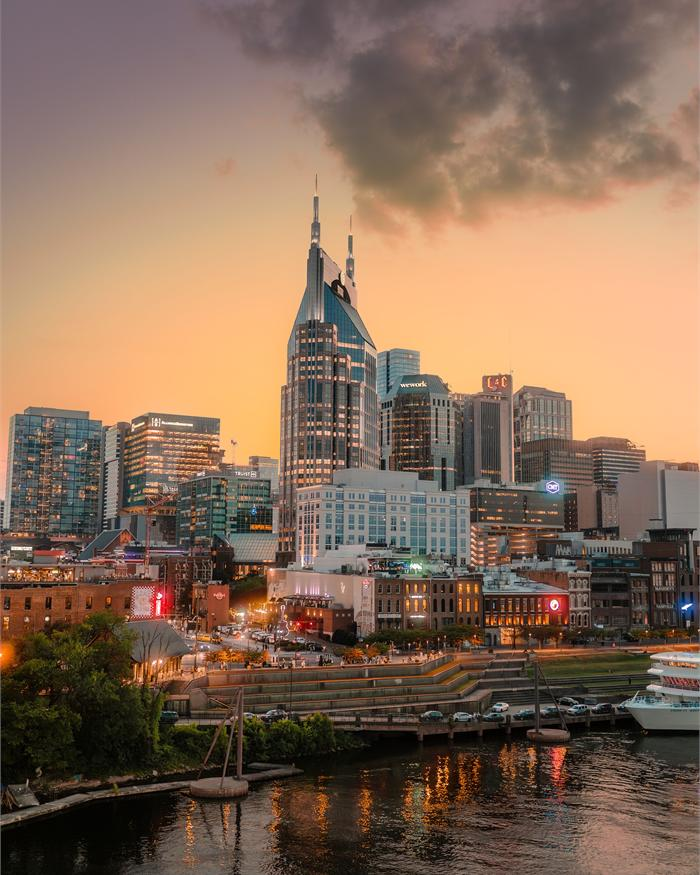
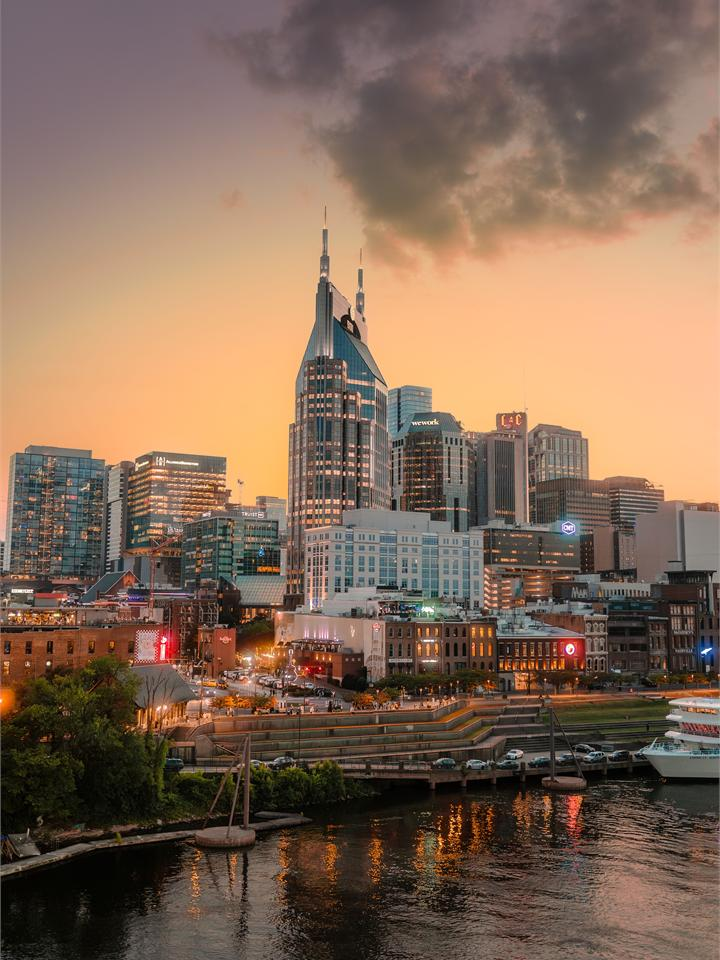
Hero: embed the photograph architecturally, no cropping
The hero image was displayed as a floating card - rounded corners, drop
shadow - with the photograph cropped to a 440px object-fit window (a heavy
zoom into the middle of the frame). Per the PI:

- The image is now a structural half of the hero: flush with the header
  above, the section edge below, and the right edge of the viewport - a
  full-bleed split hero. No radius, no shadow, no card background.
- Shown at its natural aspect (height: auto), so the full frame reads -
  sky, tower spire, skyline, riverfront and the Cumberland River
  reflections - regenerated at 3:4 (1280px and 720px variants).
- Text column stays aligned to the site grid; caption is a compact pill in
  the image's lower-right corner. On mobile the image runs edge-to-edge
  below the text at natural aspect.

diff --git a/index.html b/index.html
@@ -42,7 +42,7 @@
 <a class="skip-link" href="#main">Skip to main content</a>
 <header class="site-header"><div class="wrap site-header__inner"><a class="brand" href="index.html"><span class="brand__mark">UHR Lab</span><span class="brand__sub">Koorosh Azizi &middot; Tennessee State University</span></a><button class="nav__toggle" type="button" aria-expanded="false" aria-controls="site-nav" hidden>Menu</button><nav class="nav" id="site-nav" aria-label="Main"><ul class="nav__list"><li><a class="nav__link" href="research.html">Research</a></li><li><a class="nav__link" href="publications.html">Publications</a></li><li><a class="nav__link" href="people.html">People</a></li><li><a class="nav__link" href="teaching.html">Teaching</a></li><li><a class="nav__link" href="research.html#open-science">Open Science</a></li><li><a class="nav__link" href="news.html">News</a></li><li><a class="nav__link nav__link--cta" href="join.html">Join Us</a></li></ul></nav></div></header>
 <main id="main">
-<section class="lab-hero" aria-labelledby="lab-home-title"><div class="wrap lab-hero__grid"><div class="lab-hero__copy"><p class="lab-kicker">Urban Hydrosystems &amp; Resilience Lab</p><h1 id="lab-home-title">Urban water, infrastructure and society under a changing climate.</h1><p class="lab-hero__lede">We study cities as <strong>coupled systems</strong> &mdash; how hydrologic processes and infrastructure interact with human behavior, institutions and socioeconomic conditions to shape urban risk, sustainability, equity and resilience across space and time.</p><div class="lab-hero__topics" aria-label="Core research areas"><span>Urban water systems</span><span>Climate risk</span><span>Sociohydrology</span><span>Human–water–infrastructure systems</span></div><div class="btn-row"><a class="btn btn--primary" href="research.html">Explore our research</a><a class="btn btn--secondary" href="join.html">Join the lab</a></div><p class="lab-hero__pi"><img class="lab-hero__pi-photo" src="assets/img/azizi-portrait.jpg" width="44" height="44" alt="" loading="lazy"><span>Led by <a href="people.html">Koorosh Azizi, Ph.D.</a>, Assistant Professor of Civil &amp; Architectural Engineering at Tennessee State University.</span></p></div><figure class="lab-hero__media"><picture><source media="(max-width: 720px)" srcset="assets/img/photos/hero-nashville-sm.jpg"><img src="assets/img/photos/hero-nashville.jpg" width="1200" height="1500" alt="Downtown Nashville at sunset: the AT&amp;T tower and skyline glowing gold above the Cumberland River, with city lights reflecting in the water." fetchpriority="high" decoding="async"></picture><figcaption>Downtown Nashville and the Cumberland River · UHR Lab is based at Tennessee State University. Photo: ceesz / Pexels</figcaption></figure></div></section>
+<section class="lab-hero" aria-labelledby="lab-home-title"><div class="wrap lab-hero__grid"><div class="lab-hero__copy"><p class="lab-kicker">Urban Hydrosystems &amp; Resilience Lab</p><h1 id="lab-home-title">Urban water, infrastructure and society under a changing climate.</h1><p class="lab-hero__lede">We study cities as <strong>coupled systems</strong> &mdash; how hydrologic processes and infrastructure interact with human behavior, institutions and socioeconomic conditions to shape urban risk, sustainability, equity and resilience across space and time.</p><div class="lab-hero__topics" aria-label="Core research areas"><span>Urban water systems</span><span>Climate risk</span><span>Sociohydrology</span><span>Human–water–infrastructure systems</span></div><div class="btn-row"><a class="btn btn--primary" href="research.html">Explore our research</a><a class="btn btn--secondary" href="join.html">Join the lab</a></div><p class="lab-hero__pi"><img class="lab-hero__pi-photo" src="assets/img/azizi-portrait.jpg" width="44" height="44" alt="" loading="lazy"><span>Led by <a href="people.html">Koorosh Azizi, Ph.D.</a>, Assistant Professor of Civil &amp; Architectural Engineering at Tennessee State University.</span></p></div><figure class="lab-hero__media"><picture><source media="(max-width: 720px)" srcset="assets/img/photos/hero-nashville-sm.jpg"><img src="assets/img/photos/hero-nashville.jpg" width="1280" height="1707" alt="Downtown Nashville at sunset: the AT&amp;T tower and skyline glowing gold above the Cumberland River, with city lights reflecting in the water." fetchpriority="high" decoding="async"></picture><figcaption>Downtown Nashville and the Cumberland River · UHR Lab is based at Tennessee State University. Photo: ceesz / Pexels</figcaption></figure></div></section>
 <section class="lab-intro-strip"><div class="wrap lab-intro-strip__grid"><div><span>Our lens</span><strong>Coupled systems</strong><p>Physical, behavioral, institutional and spatial processes are analyzed together.</p></div><div><span>Our scales</span><strong>Parcel to region</strong><p>Households, neighborhoods, infrastructure networks, utilities and governance systems.</p></div><div><span>Our goal</span><strong>Actionable resilience</strong><p>Models and evidence that clarify trade-offs, mechanisms and decision leverage points.</p></div></div></section>
 <section class="section"><div class="wrap"><div class="lab-section-head"><div><p class="eyebrow">Research</p><h2>Three connected research areas</h2></div><p>Our projects span different parts of the urban water cycle, but they share a common question: how do environmental processes, infrastructure and collective decisions interact to produce different outcomes across communities and over time?</p></div><div class="lab-theme-list"><article class="lab-theme-row lab-theme-row--blue"><div class="lab-theme-row__index">01</div><div><p class="lab-theme-row__eyebrow">Climate risk assessment &amp; urban flooding</p><h3>How do hydrologic hazards become unequal urban risk and disruption?</h3></div><p>Flood processes, drainage and transportation networks, exposure, insurance, emergency access and community resilience.</p><a href="research.html#theme-flood">Explore →</a></article><article class="lab-theme-row lab-theme-row--teal"><div class="lab-theme-row__index">02</div><div><p class="lab-theme-row__eyebrow">Urban water systems &amp; sustainability transitions</p><h3>How do water systems remain reliable, affordable and adaptable under change?</h3></div><p>Water scarcity, conservation, utility institutions, finance, infrastructure condition, affordability and equity.</p><a href="research.html#theme-water">Explore →</a></article><article class="lab-theme-row lab-theme-row--green"><div class="lab-theme-row__index">03</div><div><p class="lab-theme-row__eyebrow">Stormwater infrastructure, behavior &amp; governance</p><h3>When do distributed interventions become durable collective resilience?</h3></div><p>Green stormwater infrastructure, adoption, maintenance, hydrologic connectivity, social influence and governance networks.</p><a href="research.html#theme-stormwater">Explore →</a></article></div></div></section>
 <section class="section section--tint lab-framework-section"><div class="wrap lab-framework-layout"><div class="lab-framework-copy"><p class="eyebrow">How we work</p><h2>Connecting hydrology to people and institutions</h2><p>Urban water outcomes cannot be explained by physical processes alone. We combine engineering models with spatial, behavioral and institutional analysis to understand feedbacks, unintended consequences and uneven impacts.</p><a class="text-link" href="research.html">See the research approach →</a></div><div class="lab-framework-diagram" aria-label="Research framework"><a class="lab-framework-node" href="research.html#theme-flood">Climate &amp; hydrology</a><a class="lab-framework-node" href="research.html#theme-water">Infrastructure &amp; networks</a><div class="lab-framework-node lab-framework-node--center">Urban water outcomes<br><span>risk · reliability · equity · resilience</span></div><a class="lab-framework-node" href="research.html#theme-stormwater">Households &amp; communities</a><a class="lab-framework-node" href="research.html#theme-stormwater">Institutions &amp; governance</a></div></div></section>

diff --git a/assets/css/lab-v2.css b/assets/css/lab-v2.css
@@ -228,3 +228,42 @@
   .pi-card { grid-template-columns: 1fr; gap: 1.5rem; }
   .pi-card__portrait { max-width: 300px; }
 }
+
+/* ===== Hero embed (14 Aug 2026): image is part of the architecture -
+   flush with the hero's top, right and bottom edges, shown at its natural
+   aspect with no cropping - not a floating framed card. ===== */
+.lab-hero { padding-block: 0; }
+.lab-hero .wrap { width: auto; max-width: none; margin: 0; }
+.lab-hero__grid {
+  grid-template-columns: minmax(0, 1.1fr) minmax(380px, min(44vw, 620px));
+  gap: clamp(2.5rem, 5vw, 5rem);
+  align-items: stretch;
+  padding-left: max(1.25rem, calc((100vw - var(--wrap)) / 2));
+}
+.lab-hero__copy {
+  align-self: center;
+  padding-block: clamp(3.25rem, 6vw, 5rem);
+}
+.lab-hero__media {
+  border-radius: 0;
+  box-shadow: none;
+  max-width: none;
+  background: none;
+}
+.lab-hero__media img {
+  width: 100%;
+  height: auto;          /* natural aspect - the full photograph, no zoom */
+  object-fit: unset;
+  display: block;
+}
+.lab-hero__media figcaption {
+  inset: auto .9rem .9rem auto;   /* compact pill, bottom-right corner */
+  max-width: 34ch;
+}
+@media (max-width: 1050px) {
+  .lab-hero__grid { grid-template-columns: 1fr; gap: 0; padding-left: 0; }
+  .lab-hero__copy { padding: 2.6rem 1.25rem .5rem; }
+  .lab-hero__media { max-width: none; }
+  .lab-hero__media img { height: auto; }
+  .lab-hero__media figcaption { inset: auto .8rem .8rem .8rem; max-width: none; }
+}
